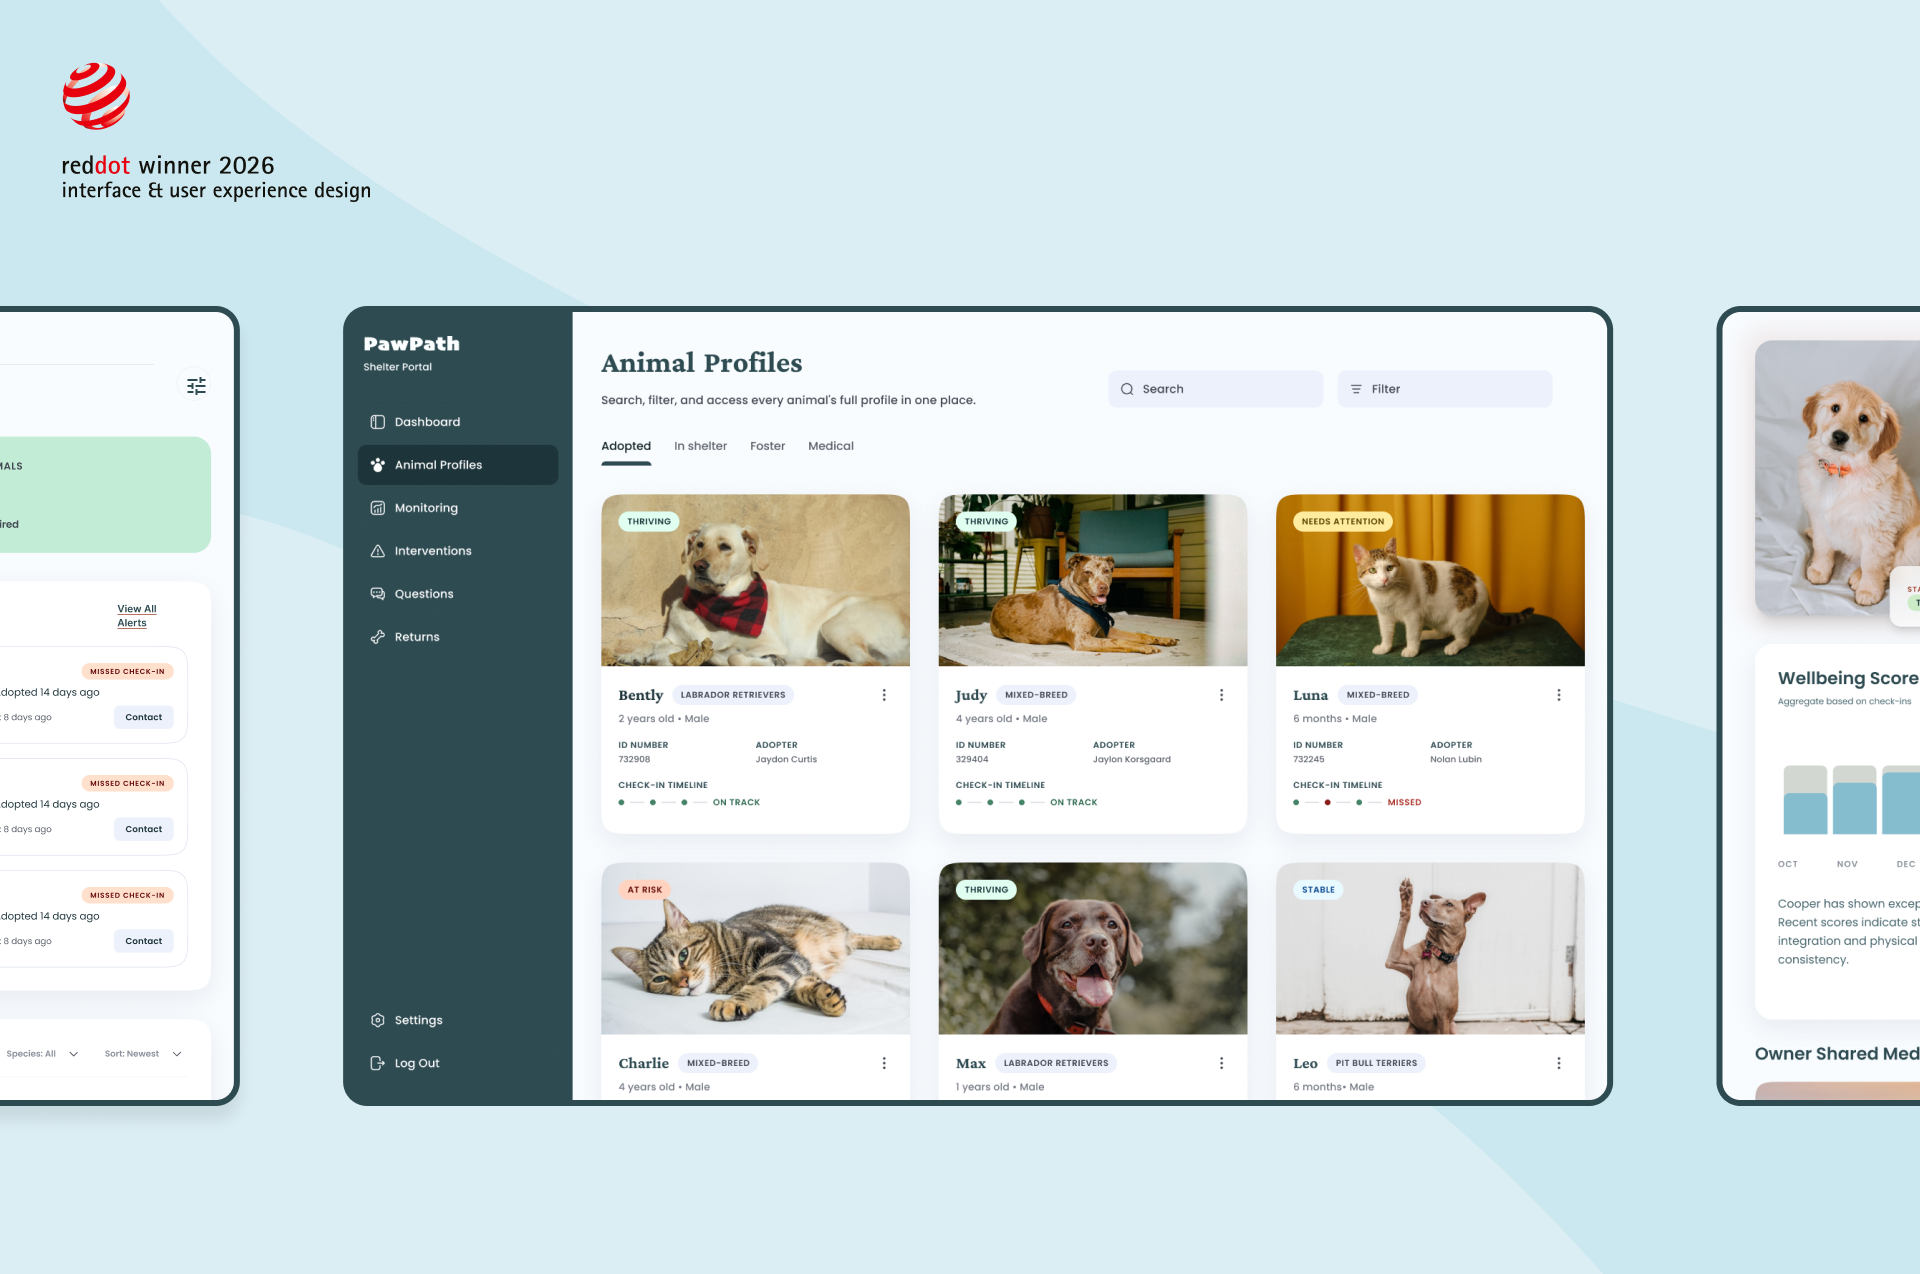
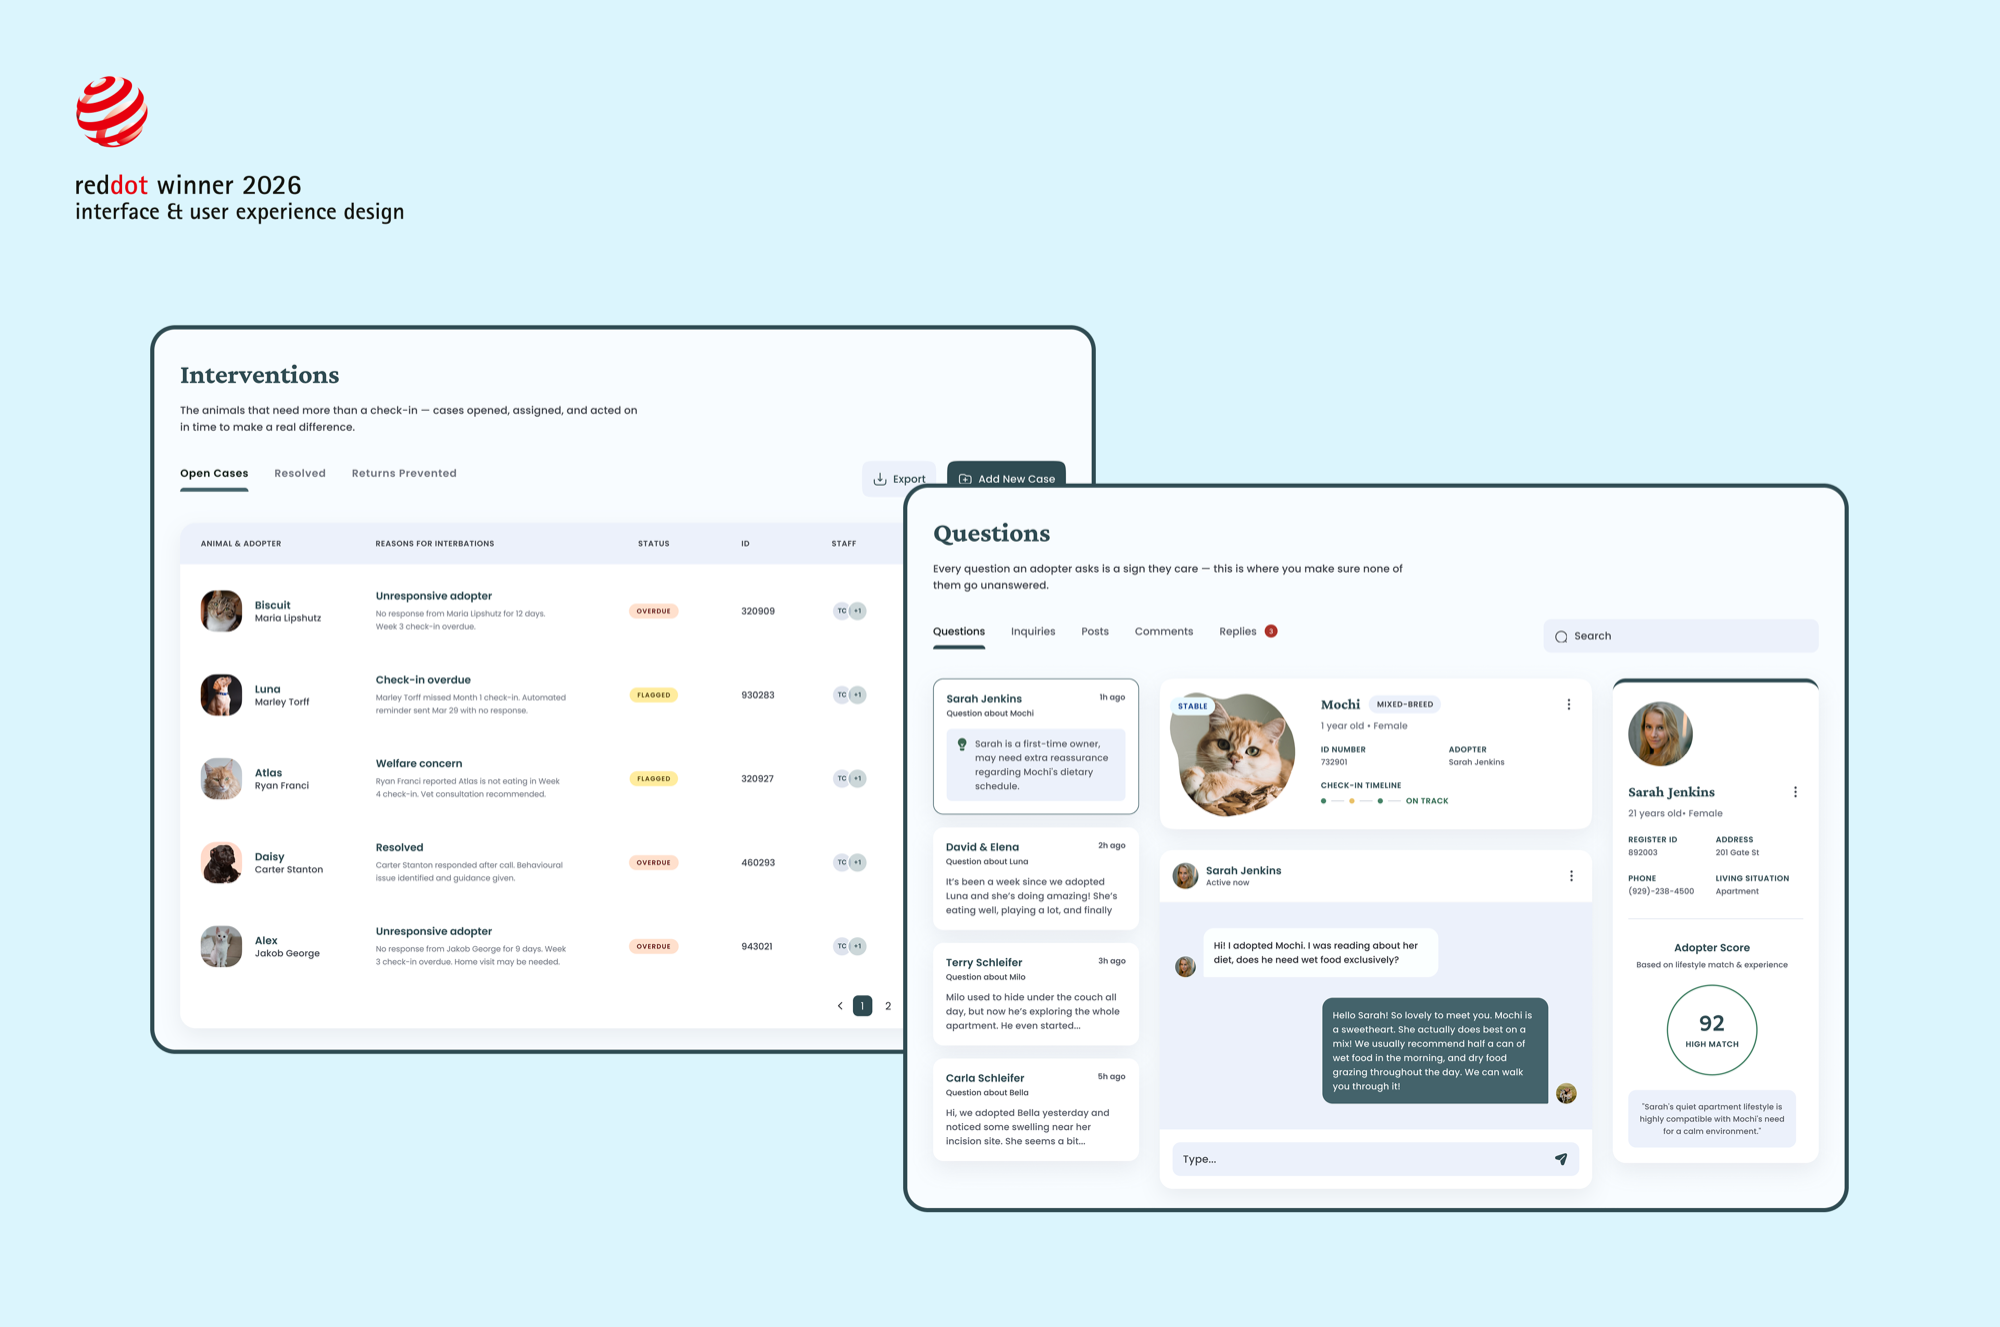
PawPath: new six-image set; projects link reads "View website"
Replaces all four PawPath shots with six new ones, Red Dot 2026 badged.
Slide four is JPEG — it is a photo-backed composition and PNG cost 3.1MB
against 471KB as JPEG. Cover moves to slide one.

diff --git a/src/pages/AllProjects.jsx b/src/pages/AllProjects.jsx
@@ -96,7 +96,7 @@ export default function AllProjects() {
                 )}
                 {item.link && (
                   <a className="ap-learn-more" href={item.link} target="_blank" rel="noreferrer">
-                    Learn more →
+                    View website →
                   </a>
                 )}
               </div>
